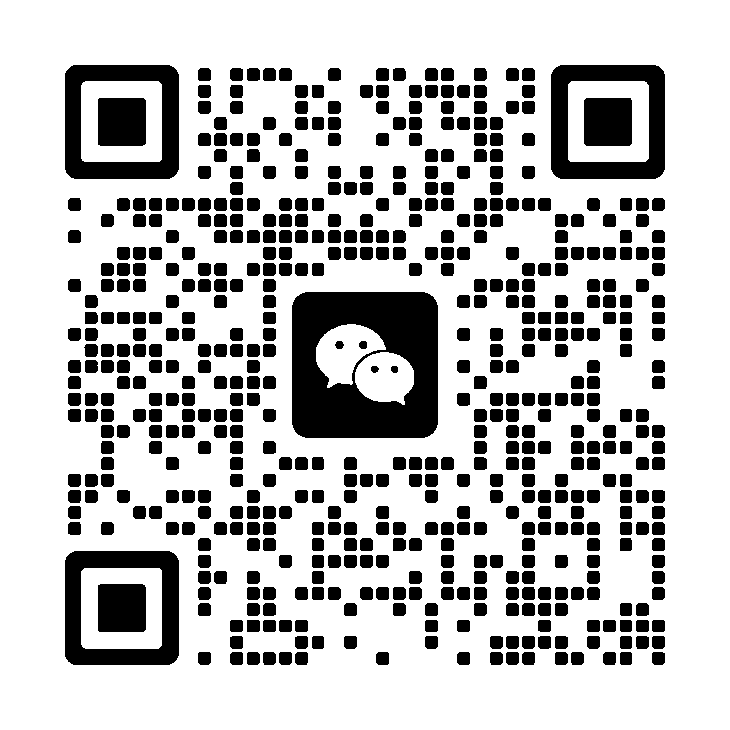
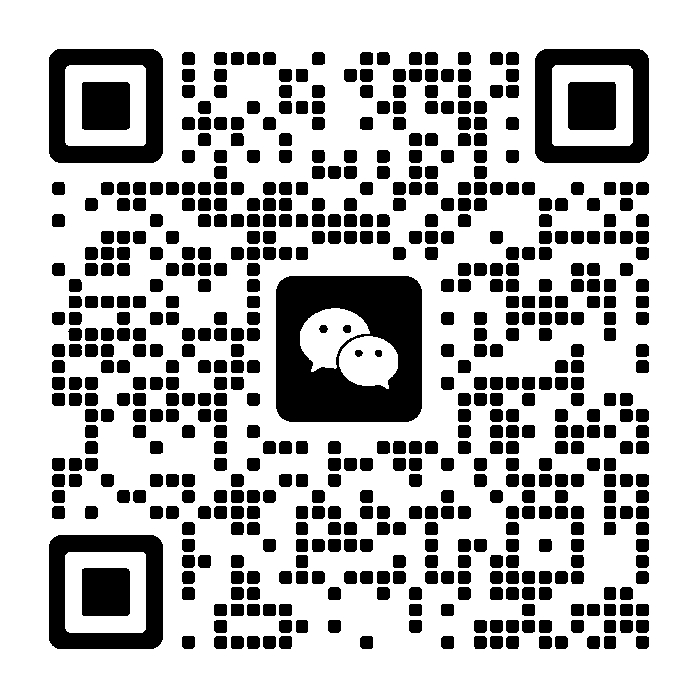
Add files via upload

diff --git a/css/style.css b/css/style.css
@@ -850,10 +850,12 @@ html[lang="ar"] .brand{
 .contact-wechat{ gap: 10px; align-items: start; }
 .wechat-qr{
   display: inline-block; align-self: start;
-  /* The image now carries exactly its 4-module quiet zone and nothing more,
-     so this padding is breathing room for the border rather than a second
-     white margin stacked on the first. */
-  padding: 8px; background: #FFFFFF;
+  /* This plate is white, so its padding is part of the code's quiet zone, not
+     a second margin on top of it — the scanner reads image-white and
+     plate-white as one continuous field. The image carries 3 modules and this
+     adds the rest, landing at 4.3 modules against the 4 that ISO/IEC 18004
+     requires. Reducing either further drops below the standard. */
+  padding: 4px; background: #FFFFFF;
   border: 1px solid var(--border); border-radius: var(--radius-md);
   line-height: 0;
   transition: border-color 0.25s var(--ease), transform 0.25s var(--ease);
@@ -973,7 +975,9 @@ html[lang="ar"] .contact-desc{
   /* The QR must not dominate a phone screen — smaller and centred, with the
      hint under it. Tapping opens the full-size image for scanning. */
   .contact-wechat{ align-items: center; text-align: center; }
-  .wechat-qr{ align-self: center; padding: 8px; }
+  /* Same 4px as desktop — the quiet zone rides in the image and scales with
+     it, so the plate does not need a bigger margin here. */
+  .wechat-qr{ align-self: center; padding: 4px; }
   .wechat-qr img{ width: 104px; height: auto; }
 
   .container{ padding: 0 20px; }

diff --git a/js/app.js b/js/app.js
@@ -592,7 +592,9 @@
     if (!available) return;
 
     var label = wrap.querySelector(".contact-label");
-    if (label) label.textContent = entry.label || "WeChat";
+    // Through the resolver, so a label may be either a plain brand string or
+    // a translation dictionary — WeChat is the one that carries local names.
+    if (label) label.textContent = getLocalizedValue(entry.label, lang) || "WeChat";
 
     var image = document.getElementById("wechat-qr-image");
     var link = document.getElementById("wechat-qr-link");
@@ -648,7 +650,10 @@
       link.innerHTML =
         '<svg class="profile-icon" viewBox="0 0 24 24" aria-hidden="true">' +
         (ICONS[key] || ICONS.globe) + "</svg>" +
-        "<span>" + escapeHtml(profile.label || key) + "</span>";
+        // Resolved too, so a link profile can carry a localised name later
+        // without touching this code. Plain brand strings pass through
+        // unchanged, which is what LinkedIn and WhatsApp use.
+        "<span>" + escapeHtml(getLocalizedValue(profile.label) || key) + "</span>";
       list.appendChild(link);
     });
   }

diff --git a/js/data.js b/js/data.js
@@ -120,7 +120,16 @@ const CV_DATA = {
         // black and white — the margins are now an even 65px on all four
         // sides, which is exactly the 4 modules ISO/IEC 18004 requires.
         qr: "assets/images/wechat-qr.png",
-        label: "WeChat"      // brand name, never translated
+        // The one channel with an official local name rather than a mere
+        // transliteration: 微信 is the original Chinese product, "WeChat"
+        // the international one, and 위챗 is standard in Korean. Everywhere
+        // else — Japanese included — the Latin form is what a native reader
+        // expects, and it is what each language's own hint text already uses.
+        label: {
+          en: "WeChat", ar: "WeChat", zh: "微信", es: "WeChat",
+          fr: "WeChat", tr: "WeChat", ko: "위챗", ja: "WeChat",
+          id: "WeChat"
+        }
       }
     },
     // One PDF per language. Empty string = not yet provided; the
